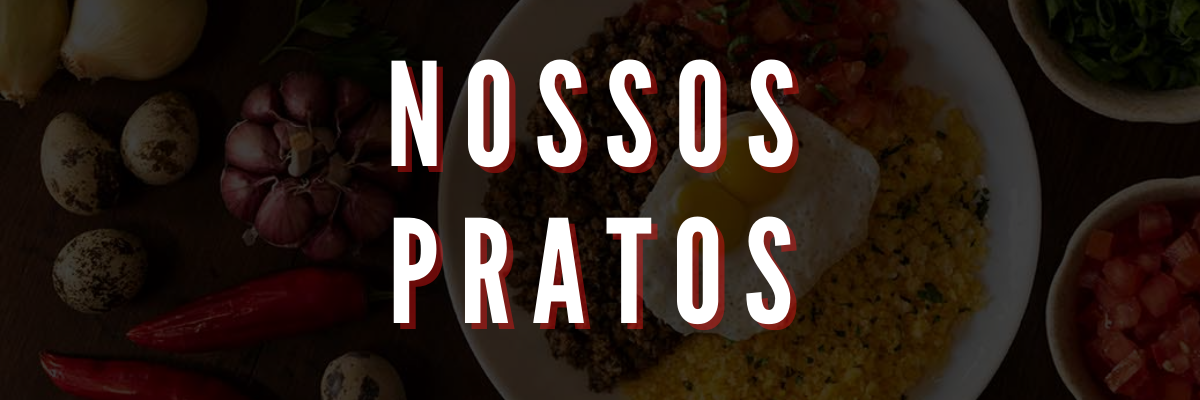
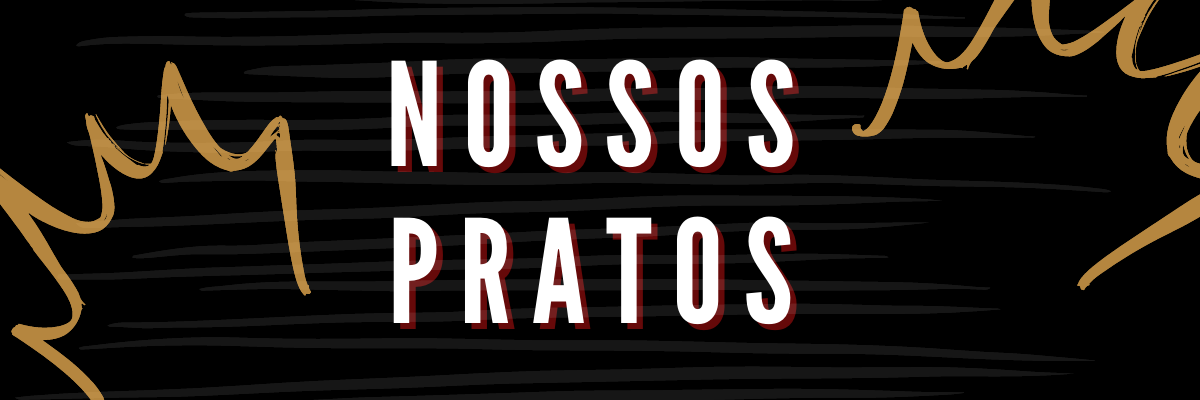
mudança de foto

diff --git a/style.css b/style.css
@@ -401,8 +401,8 @@ font-family: 'nunito',sans-serif;}
               }
 
             .pratos{margin-top: 10px;
-                    width: 1090px;
-                    border-radius: 10px;
+                    width: 900px;
+                    border-radius: 4px;
                     margin-bottom: -20px;
                     max-width: 100%;
                     
